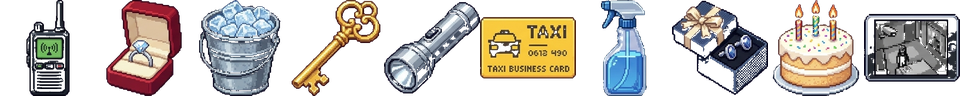
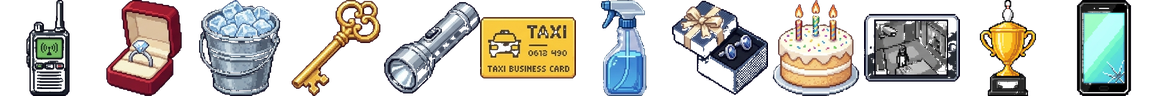
Add chapter 6 (bowling tournament, score puzzle) and chapter 7 (lost phone + blackout, cushions & generator wires)
Claude-Session: https://claude.ai/code/session_01N4C5DtYXhkWmff1TfTMec3

diff --git a/index.html b/index.html
@@ -115,7 +115,7 @@ canvas#scene{display:block;width:100%;aspect-ratio:16/9;touch-action:manipulatio
     <audio id="bgm" src="assets/music.mp3" loop preload="auto"></audio>
     <div class="over" id="start"><div>
       <p class="k">Pingwin Premium · пятница</p><h2>Смена менеджера</h2>
-      <p>Пять глав одной ночи: брони, боулинг, тишина в VIP, сцена на танцполе и пропавшее кольцо.</p>
+      <p>Семь глав одной ночи: брони, боулинг, тишина в VIP, сцена на танцполе, пропавшее кольцо, турнир и блэкаут.</p>
       <div class="btns"><button class="btn" id="bNew" type="button">Начать смену</button><button class="btn ghost" id="bCont" type="button" hidden>Продолжить</button></div>
       <p id="loading" style="margin-top:10px">Загружаю залы…</p>
     </div></div>
@@ -150,7 +150,7 @@ const cv=$('scene'),c=cv.getContext('2d');cv.width=LW*K;cv.height=LH*K;
 c.setTransform(K,0,0,K,0,0);c.imageSmoothingEnabled=true;c.imageSmoothingQuality='high';
 
 /* ---------- ассеты ---------- */
-const BGN=['lobby','hall','bowling','machine','kitchen','balcony','vip1','vip2','vip3','wc','back','panel','c_tablet','c_pin','c_cctv','c_locker','c_dress','c_cake'];
+const BGN=['lobby','hall','bowling','machine','kitchen','balcony','vip1','vip2','vip3','wc','back','panel','c_tablet','c_pin','c_cctv','c_locker','c_dress','c_cake','c_score','c_gen','c_sofa'];
 const IMG={};let ATL={},ICN=[],RIG=null;
 function load(src){return new Promise((ok,no)=>{const i=new Image();i.onload=()=>ok(i);i.onerror=no;i.src=src})}
 const ready=Promise.all([...BGN.map(n=>load('assets/bg/'+n+'.webp').then(i=>IMG[n]=i)),load('assets/atlas.png').then(i=>IMG.atlas=i),load('assets/icons.png').then(i=>IMG.icons=i),load('assets/me_portrait.webp').then(i=>IMG.mep=i),load('assets/rig.png').then(i=>IMG.rig=i),fetch('assets/rig.json').then(r=>r.json()).then(j=>RIG=j),fetch('assets/atlas.json').then(r=>r.json()).then(j=>{ATL=j.sprites;ICN=j.icons})]);
@@ -161,8 +161,8 @@ let MUTED=false;try{MUTED=localStorage.getItem('pingwin-mute')==='1'}catch(e){}
 function beep(f,d=.08,type='square',v=.03){if(MUTED)return;try{ac=ac||new(window.AudioContext||window.webkitAudioContext)();const o=ac.createOscillator(),g=ac.createGain();o.type=type;o.frequency.value=f;g.gain.setValueAtTime(v,ac.currentTime);g.gain.exponentialRampToValueAtTime(.0001,ac.currentTime+d);o.connect(g).connect(ac.destination);o.start();o.stop(ac.currentTime+d)}catch(e){}}
 
 /* ---------- персонажи ---------- */
-const NAMES={me:'Менеджер (ты)',host:'Хостес Айгерим',serik:'Охранник Серик',timur:'Бармен Тимур',dana:'Официантка Дана',sanzhar:'Официант Санжар',erlan:'Ерлан',asel:'Асель',kamila:'Камила, блогер',viktor:'Виктор Палыч',dauren:'Даурен',galina:'Шеф Галина',bau:'Бауыржан, звук',roza:'Роза апай',book:'Мужчина с книгой',coll:'Гостья с корпоратива'};
-const PBG={me:['#ff4fb0','#3a1030'],host:['#ff8a3c','#4a1a0c'],serik:['#7a8aa0','#141a24'],timur:['#3ec9c1','#0c3030'],dana:['#c08aff','#2a1040'],sanzhar:['#e8e4dc','#3a3640'],erlan:['#3ec9c1','#0c3a40'],asel:['#f0d0a0','#4a3420'],kamila:['#ff7ab8','#4a1030'],viktor:['#f0c060','#4a3010'],dauren:['#ffa040','#4a2008'],galina:['#e8eef4','#3a4450'],bau:['#7a8aff','#141444'],roza:['#5a8ae0','#10204a'],book:['#a08060','#2a1c10'],coll:['#5a8ae0','#10204a']};
+const NAMES={me:'Менеджер (ты)',host:'Хостес Айгерим',serik:'Охранник Серик',timur:'Бармен Тимур',dana:'Официантка Дана',sanzhar:'Официант Санжар',erlan:'Ерлан',asel:'Асель',kamila:'Камила, блогер',viktor:'Виктор Палыч',dauren:'Даурен',galina:'Шеф Галина',bau:'Бауыржан, звук',roza:'Роза апай',book:'Мужчина с книгой',coll:'Гостья с корпоратива',aliya:'Алия, капитан «Барсов»',aidos:'Айдос, гость VIP-2'};
+const PBG={me:['#ff4fb0','#3a1030'],host:['#ff8a3c','#4a1a0c'],serik:['#7a8aa0','#141a24'],timur:['#3ec9c1','#0c3030'],dana:['#c08aff','#2a1040'],sanzhar:['#e8e4dc','#3a3640'],erlan:['#3ec9c1','#0c3a40'],asel:['#f0d0a0','#4a3420'],kamila:['#ff7ab8','#4a1030'],viktor:['#f0c060','#4a3010'],dauren:['#ffa040','#4a2008'],galina:['#e8eef4','#3a4450'],bau:['#7a8aff','#141444'],roza:['#5a8ae0','#10204a'],book:['#a08060','#2a1c10'],coll:['#5a8ae0','#10204a'],aliya:['#ff8a3c','#4a1a0c'],aidos:['#5ab0e0','#10304a']};
 const SPH=160,PX=122/SPH; // высота спрайта менеджера в атласе и масштаб в сцене
 function sprite(k,x,feet,s=1,flip=false,clipY=null,bob=0){const a=ATL[k];if(!a)return;const w=a[2]*PX*s,h=a[3]*PX*s;
  c.save();if(clipY!=null){c.beginPath();c.rect(x-w,0,w*2,clipY);c.clip()}
@@ -193,7 +193,7 @@ function portrait(k){const [a,b]=PBG[k]||['#555','#222'];const g=pfc.createLinea
  const s=ATL[k];if(!s)return;const sw=Math.min(s[2],s[3]*.42),sx=s[0]+(s[2]-sw)/2;pfc.imageSmoothingQuality='high';pfc.drawImage(IMG.atlas,sx,s[1],sw,sw,4,6,88,88)}
 
 /* ---------- предметы ---------- */
-const ITEM={radio:['Рация',0],ring:['Коробочка с кольцом',1],ice:['Ведро льда',2],key:['Ключ от служебки',3],flash:['Фонарик',4],taxi:['Визитка такси',5],spray:['Пятновыводитель',6],cuff:['Коробка с запонками',7],cake:['Торт с кольцом',8],pkey:['Ключ от техшкафа',3],lkey:['Ключ от шкафчика находок',3]};
+const ITEM={radio:['Рация',0],ring:['Коробочка с кольцом',1],ice:['Ведро льда',2],key:['Ключ от служебки',3],flash:['Фонарик',4],taxi:['Визитка такси',5],spray:['Пятновыводитель',6],cuff:['Коробка с запонками',7],cake:['Торт с кольцом',8],pkey:['Ключ от техшкафа',3],lkey:['Ключ от шкафчика находок',3],trophy:['Кубок турнира',10],phone:['Телефон Айдоса',11]};
 function drawIcon(ctx,id,s){const r=ICN[ITEM[id][1]];if(!r||!IMG.icons)return;ctx.imageSmoothingQuality='high';ctx.drawImage(IMG.icons,r[0],r[1],r[2],r[3],0,0,s,s)}
 
 /* ---------- сцены (координаты 640×360) ---------- */
@@ -218,8 +218,8 @@ const SC={
    {n:'На ресепшн',x:0,y:200,w:36,h:160,at:40,go:'lobby',mk:[18,320]},
    {n:'В боулинг',x:576,y:296,w:64,h:64,at:560,go:'bowling',mk:[610,326]}]},
  bowling:{name:'Боулинг',floor:302,s:.84,min:60,max:560,fg:[{a:1,p:[[0,263],[62,262],[102,290],[102,346],[0,346]]},{a:1,p:[[64,292],[160,292],[160,345],[64,345]]},{a:1,p:[[140,300],[180,271],[272,269],[302,292],[302,360],[140,360]]},{a:1,p:[[296,288],[372,288],[372,346],[296,346]]},{a:1,p:[[364,307],[416,307],[416,350],[364,350]]}],
-  npcs:()=>S.ch>=1?[{k:'coll',x:440,act:()=>say1(S.ch===2&&!S.fixed?'Коллеги Виктора Палыча грустно ждут. Кто-то уже зевает.':'Корпоратив играет и громко болеет за своих.')},{k:'viktor',x:492,act:viktorTalk,use:{cuff:cuffViktor}}]:[],
-  hot:()=>[{n:'Дорожка 11',x:430,y:186,w:100,h:66,at:470,act:lane11},
+  npcs:()=>S.ch>=1?[{k:'coll',x:440,act:()=>say1(S.ch===2&&!S.fixed?'Коллеги Виктора Палыча грустно ждут. Кто-то уже зевает.':'Корпоратив играет и громко болеет за своих.')},{k:'viktor',x:492,act:viktorTalk,use:{cuff:cuffViktor,trophy:trophyViktor}},S.ch===6&&{k:'aliya',x:398,act:aliyaTalk,use:{trophy:trophyAliya}}]:[],
+  hot:()=>[{n:'Дорожка 11',x:430,y:186,w:100,h:66,at:470,act:lane11},...(S.ch===6?[{n:'Табло и пульт дорожек',x:180,y:100,w:92,h:54,at:230,act:lane11}]:[]),
    {n:'Служебная дверь',x:566,y:160,w:70,h:118,at:560,act:serviceDoor},
    {n:'В зал',x:0,y:220,w:30,h:140,at:30,go:'hall',mk:[16,320]}]},
  machine:{name:'Машинное отделение',floor:340,s:1,min:40,max:600,dark:1,npcs:()=>[],
@@ -233,7 +233,8 @@ const SC={
  back:{name:'Задний двор',floor:332,s:1,min:120,max:560,
   npcs:()=>S.ch===3&&!S.s3bau?[{k:'bau',x:440,act:bauBack}]:[],
   hot:()=>[{n:'Дверь на кухню',x:212,y:158,w:82,h:142,at:252,go:'kitchen'},
-   {n:'Мусорные баки',x:370,y:218,w:80,h:70,at:400,act:()=>say1('Баки. Холодно, снег. Лучше не задерживаться.')}]},
+   {n:'Мусорные баки',x:370,y:218,w:80,h:70,at:400,act:()=>say1('Баки. Холодно, снег. Лучше не задерживаться.')},
+   {n:'Аварийный генератор',x:470,y:180,w:110,h:120,at:500,act:genAct}]},
  balcony:{name:'Балкон · 2 этаж',floor:216,s:.62,min:60,max:600,fg:[{a:.55,p:[[0,181],[290,181],[290,305],[0,305]]},{a:.55,p:[[365,181],[640,181],[640,320],[365,320]]},{a:1,p:[[408,214],[596,214],[596,322],[408,322]]}],
   npcs:()=>[(S.ch!==3||S.s3bau)&&{k:'bau',x:520,act:bauTalk},S.ch===3&&{k:'sanzhar',x:190,act:sanzharTalk}],
   hot:()=>[{n:'VIP-1',x:104,y:112,w:50,h:96,at:128,go:'vip1'},{n:'VIP-2',x:220,y:112,w:50,h:96,at:244,go:'vip2'},
@@ -245,8 +246,9 @@ const SC={
   npcs:()=>S.ch>=3?[{k:'erlan',x:250,act:erlanVip,use:{cake:finale}},{k:'asel',x:340,act:()=>talk([['asel','Какой вечер! Ерлан сегодня какой-то загадочный.','happy']])}]:[],
   hot:()=>[{n:'Караоке-экран',x:240,y:96,w:160,h:100,at:320,act:()=>say1(S.ch>=3&&!S.s3fixed?'Экран показывает слова, но звука нет.':'Строчки бегут, все поют.')},{n:'На балкон',x:0,y:250,w:70,h:110,at:80,go:'balcony',mk:[30,320]}]},
  vip2:{name:'VIP-2',floor:342,s:1.55,min:70,max:540,
-  npcs:()=>S.ch>=1&&S.ch<=3?[{k:'dauren',x:300,act:()=>talk([['dauren',S.ch===3&&!S.s3fixed?'Эй! Где звук?! Я только разогрелся!':'Я звезда этого вечера! Ещё песню!','happy']])}]:[],
-  hot:()=>[{n:'Караоке-экран',x:310,y:110,w:90,h:80,at:350,act:()=>say1('В VIP-2 поют громко и мимо нот.')},{n:'На балкон',x:0,y:250,w:70,h:110,at:80,go:'balcony',mk:[30,320]}]},
+  npcs:()=>S.ch>=1&&S.ch<=3?[{k:'dauren',x:300,act:()=>talk([['dauren',S.ch===3&&!S.s3fixed?'Эй! Где звук?! Я только разогрелся!':'Я звезда этого вечера! Ещё песню!','happy']])}]:S.ch===7?[{k:'aidos',x:430,act:aidosTalk,use:{phone:phoneAidos}}]:[],
+  hot:()=>[{n:'Караоке-экран',x:310,y:110,w:90,h:80,at:350,act:()=>say1(S.ch===7&&S.s7dark&&!S.s7power?'Экран погас вместе со всем кварталом.':'В VIP-2 поют громко и мимо нот.')},
+   ...(S.ch===7&&S.s7buzz&&!S.s7phone&&!has('phone')?[{n:'Диван: что-то вибрирует',x:96,y:176,w:140,h:76,at:180,act:sofaAct}]:[]),{n:'На балкон',x:0,y:250,w:70,h:110,at:80,go:'balcony',mk:[30,320]}]},
  vip3:{name:'VIP-3',floor:346,s:1.6,min:120,max:590,
   npcs:()=>S.kamila==='vip'&&S.ch>=1&&S.ch<=3?[{k:'kamila',x:330,act:()=>talk([['kamila','Сторис уже набрала кучу реакций! Спасибо за VIP.','happy']])}]:[],
   hot:()=>[{n:'Табличка «Забронировано»',x:340,y:212,w:60,h:30,at:370,act:()=>say1(S.vipFree?'Табличку можно убрать: бронь отменили.':'Бронь на 20:00, компания Сауле.')},{n:'На балкон',x:0,y:40,w:80,h:290,at:120,go:'balcony',mk:[40,300]}]},
@@ -259,7 +261,10 @@ const SC={
  c_cctv:{name:'Камеры наблюдения',closeup:1,floor:340,s:1,min:300,max:300,npcs:()=>[],hot:backHot},
  c_locker:{name:'Шкафчик находок',closeup:1,floor:340,s:1,min:300,max:300,npcs:()=>[],hot:backHot},
  c_dress:{name:'Платье',closeup:1,floor:340,s:1,min:300,max:300,npcs:()=>[],hot:backHot},
- c_cake:{name:'Торт',closeup:1,floor:340,s:1,min:300,max:300,npcs:()=>[],hot:backHot}
+ c_cake:{name:'Торт',closeup:1,floor:340,s:1,min:300,max:300,npcs:()=>[],hot:backHot},
+ c_score:{name:'Пульт дорожек',closeup:1,floor:340,s:1,min:300,max:300,npcs:()=>[],hot:backHot},
+ c_gen:{name:'Генератор',closeup:1,floor:340,s:1,min:300,max:300,npcs:()=>[],hot:backHot},
+ c_sofa:{name:'Диван VIP-2',closeup:1,floor:340,s:1,min:300,max:300,npcs:()=>[],hot:backHot}
 };
 function backHot(){return S.mini?[]:[{n:'Назад',x:0,y:296,w:90,h:64,at:300,act:leaveCloseup,mk:[34,330]}]}
 function leaveCloseup(){S.ready=null;S.mini=null;go(S.prevScene||'lobby',S.prevX)}
@@ -273,15 +278,18 @@ function makeMini(k){
  if(k==='lock')return{type:'lock',d:[0,0,0,0]};
  if(k==='stain')return{type:'stain',b:[[180,120,38],[300,200,46],[420,140,34],[250,280,30],[470,260,40],[360,90,26]].map(([x,y,r])=>({x,y,r,a:1}))};
  if(k==='candles')return{type:'candles',lit:[0,0,0,0,0,0,0],next:1.2};
+ if(k==='score')return{type:'score',d:[0,0,0],tries:0};
+ if(k==='wires')return{type:'wires',done:[0,0,0,0],hold:null,px:0,py:0,spark:0};
+ if(k==='cushions')return{type:'cushions',cu:[{x:286,y:176,w:180,h:104},{x:170,y:150,w:170,h:110},{x:330,y:120,w:150,h:96}],grab:null,ox:0,oy:0};
 }
 function winMini(){S.mini=null;beep(784,.12,'triangle',.05);setTimeout(()=>beep(1046,.16,'triangle',.05),120);const w=WIN;WIN=null;w&&w()}
-const CH=[['Пролог','19:00','Открытие смены'],['Глава 1','20:00','Без брони'],['Глава 2','21:00','Боулинг встал'],['Глава 3','22:00','Тишина в VIP'],['Глава 4','23:00','Сцена на танцполе'],['Глава 5','23:40','Где кольцо?']];
+const CH=[['Пролог','19:00','Открытие смены'],['Глава 1','20:00','Без брони'],['Глава 2','21:00','Боулинг встал'],['Глава 3','22:00','Тишина в VIP'],['Глава 4','23:00','Сцена на танцполе'],['Глава 5','23:40','Где кольцо?'],['Глава 6','00:30','Турнир без табло'],['Глава 7','01:30','Блэкаут']];
 
 /* ---------- состояние ---------- */
 let S,T=0,fade={a:0,d:0,cb:null},cardOpen=false,endOpen=false,started=false,pops=[];
 const me={x:300,tx:300,face:1,cb:null,ph:0};
 const NEW=()=>({ch:0,scene:'lobby',inv:[],sel:null,g:3,t:3,k:3,radio:0,vis:{},erlanCalled:0,erlanHere:0,erlanMet:0,ringStored:0,metHost:0,talkedKamila:0,vipFree:0,host:0,kamila:null,viktor:null,triedDoor:0,askedIce:0,key:0,flash:0,fixed:0,mini:null,
- s3san:0,s3console:0,s3fixed:0,s3bau:0,bauChoice:0,s4d:null,s4dress:0,needTaxi:0,s5empty:0,s5cam:0,s5dana:0,s5locker:0,s5code:0,ready:null,prevScene:null,prevX:300,s5ring:0,cake:0,done:0});
+ s3san:0,s3console:0,s3fixed:0,s3bau:0,bauChoice:0,s4d:null,s4dress:0,needTaxi:0,s5empty:0,s5cam:0,s5dana:0,s5locker:0,s5code:0,ready:null,prevScene:null,prevX:300,s5ring:0,cake:0,done:0,s5done:0,s6vik:0,s6sheet:0,s6won:0,s7aidos:0,s7dark:0,s7buzz:0,s7phone:0,s7power:0});
 const has=id=>S.inv.includes(id);
 function give(id){if(!has(id))S.inv.push(id);pose('ma3',.7);renderInv();beep(880,.06);setTimeout(()=>beep(1320,.08),70);pops.push({t:1.6,s:'+ '+ITEM[id][0]})}
 function take(id){S.inv=S.inv.filter(i=>i!==id);if(S.sel===id)S.sel=null;renderInv()}
@@ -319,6 +327,13 @@ function goal(){const g=(t,s,x,y=0)=>[t,s,x,y];
   if(!S.s5dana)return g('Найди официантку Дану в зале','hall',120);if(!S.s5locker&&!S.s5code)return g('Узнай код шкафчика у Серика','lobby',186);
   if(!S.s5locker)return g('Открой шкафчик находок за стойкой','lobby',376,228);if(!has('ring')&&!S.cake)return g('Найди Виктора Палыча в боулинге','bowling',492);
   if(!S.cake)return g('Отнеси кольцо шефу Галине на кухню','kitchen',330);return g('Вынеси торт Ерлану в VIP-1','vip1',256)}
+ if(S.ch===6){if(!S.s6vik)return g('Табло в боулинге погасло: поговори с Виктором Палычем','bowling',492);
+  if(!S.s6sheet)return g('Посчитай очки на пульте дорожек','bowling',226,104);
+  if(!has('trophy')&&!S.s6won)return g('Кубок для победителя — у Айгерим на ресепшн','lobby',246);
+  return g('Вручи кубок победителям','bowling',398)}
+ if(S.ch===7){if(!S.s7aidos)return g('Гость в VIP-2 потерял телефон','vip2',430);
+  if(!S.s7phone){if(has('phone'))return g('Верни телефон Айдосу','vip2',430);return S.s7buzz?g('Что-то вибрирует в диване VIP-2','vip2',150,178):g('Поговори с Айдосом','vip2',430)}
+  if(!S.s7power)return g('Запусти генератор на заднем дворе (через кухню)','back',520,200);return g('…','lobby',0)}
  return g('…','lobby',0)}
 const LINKS={};for(const s in SC){LINKS[s]={}}
 function buildLinks(){for(const s in SC)SC[s].hot().forEach(h=>{if(h.go)LINKS[s][h.go]=h})}
@@ -347,9 +362,11 @@ const INTRO=[
  ()=>talk([['r:timur','Шеф! Из боулинга кричат: на 11-й дорожке встала машина!'],['me','Иду.']]),
  ()=>talk([['r:sanzhar','Шеф, в VIP-1 и VIP-2 пропал звук! Ерлан недоволен, а Бауыржана нигде нет.'],['me','Поднимаюсь.']]),
  ()=>talk([['r:serik','Шеф, в зале гость с микрофоном рвётся на сцену. И облил кого-то коктейлем.'],['me','Уже бегу.']]),
- ()=>talk([['r:galina','Шеф, торт для Ерлана готов! Неси кольцо, у нас двадцать минут.'],['me','Кольцо в ящике под стойкой. Сейчас принесу.']])
+ ()=>talk([['r:galina','Шеф, торт для Ерлана готов! Неси кольцо, у нас двадцать минут.'],['me','Кольцо в ящике под стойкой. Сейчас принесу.']]),
+ ()=>talk([['r:timur','Шеф, в боулинге погасло табло! Финал турнира, корпоратив спорит, кто победил.'],['me','Иду считать.']]),
+ ()=>talk([['r:sanzhar','Шеф, в VIP-2 гость потерял телефон. У него в шесть утра самолёт, посадочный — в телефоне.'],['me','Поднимаюсь.']])
 ];
-function chapter(n){S.ch=n;save();cardOpen=true;const [k,t,s]=CH[n];$('cardK').textContent='Пятница, '+t;$('cardT').textContent=k;$('cardS').textContent=s;$('card').hidden=false;
+function chapter(n){S.ch=n;save();cardOpen=true;const [k,t,s]=CH[n];$('cardK').textContent=(t<'1'?'Ночь на субботу, ':'Пятница, ')+t;confetti=0;$('cardT').textContent=k;$('cardS').textContent=s;$('card').hidden=false;
  beep(523,.12,'triangle',.05);setTimeout(()=>beep(784,.16,'triangle',.05),140);idle()}
 $('card').addEventListener('click',()=>{if(!cardOpen)return;cardOpen=false;$('card').hidden=true;INTRO[S.ch]()});
 const nextCh=n=>()=>setTimeout(()=>chapter(n),700);
@@ -362,6 +379,8 @@ function serikTalk(){
   if(S.s5dana&&!S.s5locker&&!S.s5code){talk([['serik','Код от шкафчика находок? Загадку помните, шеф: так у нас заведено.'],['serik','Сначала номер дорожки, которая сегодня ломалась. Потом номер VIP Ерлана — двумя цифрами.']],null,()=>{S.s5code=1});return}}
  talk([['serik',['На входе порядок, шеф. Народ уже собирается.','Камила — та самая блогер. Половина зала на неё подписана.','На входе тихо. Удачи с боулингом.','Бауыржан? Мимо меня не проходил.','Если что — я рядом.','Кольцо найдём, шеф.'].slice(S.ch)[0]]])}
 function hostTalk(){
+ if(S.ch===6){if(S.s6sheet&&!S.s6won&&!has('trophy')){talk([['host','Кубок турнира? Стоит у меня с обеда, держите!']],null,()=>give('trophy'));return}talk([['host',S.s6won?'Шеф, «Барсы» фотографируются с кубком у входа!':'Кубок для турнира у меня. Ждёт победителя.']]);return}
+ if(S.ch===7){talk([['host',S.s7power?'Свет! Спасибо, шеф!':'Гости спрашивают, надолго ли темнота…']]);return}
  if(S.ch===0){talk([['host','Бронь на вечер полная, шеф. Справлюсь!']]);return}
  if(S.ch===1&&!S.metHost){S.metHost=1;talk([['host','Пришла Камила с подругами, без брони. Она блогер, у неё огромная аудитория.'],['host','Хотят VIP-караоке. А у нас всё занято.'],['me','Совсем всё?'],['host','VIP-1 — праздник Ерлана, в VIP-2 уже поют, VIP-3 забронирован на 20:00.']]);return}
  if(S.ch===1){talk([['host',S.vipFree?'Уборку в VIP-3 я уже предупредила!':'Планшет с бронями на стойке, если нужно.']]);return}
@@ -413,6 +432,9 @@ function viktorTalk(){
    {t:'Подождите ещё десять минут',go:()=>{S.viktor='bad';sc(-1,0,0);talk([['viktor','Десять минут. Засекаю.']])}}]);return}
   if(!S.fixed){talk([['viktor','Ну что, шеф? Мы всё ещё ждём.']]);return}
   if(S.viktor==='good'){sc(1,0,0);talk([['viktor','Вот это скорость! Ребята, играем!']],null,nextCh(3))}else talk([['viktor','Наконец-то. Но осадочек остался.']],null,nextCh(3));return}
+
+ if(S.ch===6){if(has('trophy')){trophyViktor();return}if(!S.s6vik){S.s6vik=1;talk([['viktor','Шеф! Финал турнира, последний бросок — и табло погасло!'],['viktor','Мы, «Соколы», точно впереди. А «Барсы» спорят.'],['aliya','Ничего не точно! Я в десятом выбила девятку. Пусть посчитают.']]);return}
+  talk([['viktor',S.s6won?'Ну что ж… Хорошая была игра.':'Посчитайте уже, шеф. Пульт там, у дорожки.']]);return}
  if(S.ch===5&&!has('ring')&&!S.cake){if(!has('cuff')){talk([['viktor','Шеф? Что-то случилось?'],['me','Пока не знаю. Скоро вернусь.']]);return}cuffViktor();return}
  talk([['viktor','Отличный вечер, шеф!']])}
 function cuffViktor(){if(S.ch!==5||!has('cuff'))return say1('Виктору Палычу это не нужно.');
@@ -421,7 +443,9 @@ function cuffViktor(){if(S.ch!==5||!has('cuff'))return say1('Виктору Па
  else talk([['me','Виктор Палыч, кажется, у вас наша коробочка.'],['viktor','А, это вы. Та, что заставила нас ждать?']],[
   {t:'Простите за дорожку. Вот ваша коробка, а с меня десерт',go:()=>{sc(0,0,-1);talk([['viktor','Ладно, принято. Держите вашу коробочку.']],null,swap)}},
   {t:'Это кольцо для предложения. Пожалуйста, верните',go:()=>{talk([['viktor','…Предложение? Ну что ж вы сразу не сказали. Держите.']],null,swap)}}])}
-function lane11(){if(S.ch===2&&!S.fixed){say1('Грабли опущены, кегли не встают. Машина за стеной заклинила — служебная дверь справа.');return}say1('Дорожка 11. Кегли стоят ровно.')}
+function lane11(){if(S.ch===6){if(!S.s6vik){say1('Табло погасло. Сначала узнаю, что случилось.');return}if(S.s6sheet){say1('Табло так и не ожило. Хорошо, что есть распечатка.');return}
+  inspect('c_score','score','Табло сдохло, но пульт печатает протокол бросков. У «Соколов» итог есть — 136. У «Барсов» итог не допечатался.',()=>go('bowling',470,scoreWin));return}
+ if(S.ch===2&&!S.fixed){say1('Грабли опущены, кегли не встают. Машина за стеной заклинила — служебная дверь справа.');return}say1('Дорожка 11. Кегли стоят ровно.')}
 function serviceDoor(){if(S.ch!==2||S.fixed){say1('Служебная дверь в машинное отделение. Посторонним вход воспрещён.');return}
  S.triedDoor=1;if(!S.key){pose('ma4',1.2);say1('Заперто. Ключ от служебки — у бармена Тимура.');return}
  if(!S.flash){talk([['me','Открыла. Внутри темно, хоть глаз выколи.'],['me','Нужен фонарик. Он у Серика на входе.']]);return}
@@ -473,10 +497,41 @@ function ringGalina(){if(!has('ring'))return;take('ring');S.cake=1;give('cake');
 function erlanVip(){if(S.ch===5&&has('cake')){finale();return}
  talk([['erlan',S.ch===3&&!S.s3fixed?'Шеф, а музыка будет? Через два часа мой главный момент…':S.ch===5?'Шеф… Всё в силе?':'Отличный вечер! Спасибо, что всё так.']])}
 function finale(){if(!has('cake'))return;inspect('c_cake','candles','Семь свечей. Зажги все разом, пока Ерлан не встал. Сквозняк из двери гасит их по одной.',()=>go('vip1',180,finaleWin))}
-function finaleWin(){pose('ma5',3);take('cake');S.done=1;sc(1,1,1);
- talk([['me','С днём рождения, Ерлан!'],['erlan','Асель… Я давно хотел спросить.'],['erlan','Ты выйдешь за меня?'],['asel','Да! Конечно, да!'],['bau','Музыку погромче!']],null,()=>{confetti=1;setTimeout(epilogue,1600)})}
+function finaleWin(){pose('ma5',3);take('cake');S.s5done=1;sc(1,1,1);
+ talk([['me','С днём рождения, Ерлан!'],['erlan','Асель… Я давно хотел спросить.'],['erlan','Ты выйдешь за меня?'],['asel','Да! Конечно, да!'],['bau','Музыку погромче!']],null,()=>{confetti=1;setTimeout(()=>talk([['me','Полночь. Кольцо на пальце, гости счастливы.'],['me','Но смена ещё не кончилась.']],null,nextCh(6)),1800)})}
+/* ---------- глава 6 ---------- */
+function aliyaTalk(){if(has('trophy')){trophyAliya();return}
+ talk([['aliya',S.s6won?'Спасибо, шеф! Честная игра — лучшая игра.':S.s6sheet?'Ну? Кто победил?':'Протокол бросков печатает пульт у дорожки. Там всё видно.']])}
+function scoreWin(){S.s6sheet=1;talk([['me','«Барсы» — 138, «Соколы» — 136. Два очка!'],['aliya','Я же говорила! Девятка в десятом!'],['viktor','…Перепроверять не буду. Наверное.']])}
+function trophyAliya(){if(!has('trophy'))return;take('trophy');S.s6won='honest';sc(1,1,0);
+ talk([['me','Победители турнира — «Барсы»! 138 очков.'],['aliya','Ура! Девочки, фото с кубком!'],['viktor',S.viktor==='good'?'Ладно, шеф, заслужили. В следующую пятницу — реванш!':'Хм. Ну, поздравляю.']],null,nextCh(7))}
+function trophyViktor(){if(!has('trophy'))return;
+ talk([['viktor','Шеф, отойдём на секунду.'],['viktor','Я их начальник, неловко проигрывать подчинённым. Отдайте кубок «Соколам».'],['viktor','А команде вашей — щедрые чаевые. Табло-то всё равно не работало.']],[
+  {t:'Простите, счёт есть счёт. Кубок — «Барсам»',go:trophyAliya},
+  {t:'Ладно, табло действительно не работало',go:()=>{take('trophy');S.s6won='viktor';sc(-2,0,2);talk([['viktor','Вот это я понимаю — сервис!'],['aliya','Серьёзно? Мы же видели распечатку…'],['me','(Неприятно. Но касса довольна.)']],null,nextCh(7))}}])}
+
+/* ---------- глава 7 ---------- */
+function aidosTalk(){
+ if(has('phone')){phoneAidos();return}
+ if(!S.s7aidos){talk([['aidos','Шеф, я потерял телефон! Где-то здесь, в VIP-2.'],['aidos','Друзья звонят — гудки идут, но за музыкой ничего не слышно.'],['aidos','А в шесть утра самолёт. Посадочный — там.'],['me','Найдём. Сейчас попрошу выключить музыку…']],null,()=>{S.s7aidos=1;setTimeout(blackout,500)});return}
+ if(S.s7phone){talk([['aidos',S.s7power?'Свет и телефон! Лучшая ночь.':'Телефон нашёлся, теперь бы свет…']]);return}
+ talk([['aidos',S.s7buzz?'Слышите? Вибрирует! Где-то в диване!':'Темно, как в шахте…']])}
+function blackout(){S.s7dark=1;bgm.pause();beep(90,.6,'sawtooth',.05);
+ talk([['me','…Что?! Свет погас. Музыка тоже.'],['r:serik','Шеф, весь квартал без света! Метель оборвала линию.'],['r:serik','Аварийный генератор — на заднем дворе, через кухню.'],['r:host','Шеф, гости в зале волнуются! Что делать?']],[
+  {t:'Свечи на столы и чай за счёт заведения',go:()=>{sc(1,0,-1);talk([['r:host','Поняла! Свечи уже несём.']],null,buzz)}},
+  {t:'Серик, у входа: никто не уходит без оплаты',go:()=>{sc(-1,0,1);talk([['r:serik','Принял. Стою у двери.']],null,buzz)}},
+  {t:'Объяви: без паники, через десять минут будет свет',go:()=>{sc(0,1,0);talk([['r:host','Объявила. Все ждут вас, шеф!']],null,buzz)}}])}
+function buzz(){S.s7buzz=1;talk([['aidos','Тихо!.. Слышите? Бззз… Бззз…'],['me','Музыки нет — и его телефон стало слышно. Звонят друзья!'],['me','Вибрирует где-то в диване.']])}
+function sofaAct(){inspect('c_sofa','cushions','Темно. Вибрация идёт из-под подушек. Разгребу их, посвечу фонариком.',()=>{give('phone');go('vip2',260,()=>say1('Есть! Телефон Айдоса. Экран треснул, но живой.'))})}
+function phoneAidos(){if(!has('phone'))return;take('phone');S.s7phone=1;sc(1,0,0);
+ talk([['aidos','Мой телефон! Посадочный на месте!'],['aidos','Шеф, вы чудо. Оставлю вам отзыв на пять звёзд.']],null,checkCh7)}
+function genAct(){if(S.ch!==7||!S.s7dark||S.s7power){say1('Аварийный генератор под навесом. Надеюсь, не пригодится.');return}
+ inspect('c_gen','wires','Генератор. Кто-то отсоединил провода на обслуживании. Каждый провод — к клемме своего цвета.',()=>{S.s7power=1;playMusic();go('back',500,()=>talk([['me','Тррр… Генератор завёлся!'],['r:serik','Шеф, свет есть! Гости аплодируют!']],null,checkCh7))})}
+function checkCh7(){if(!S.s7phone||!S.s7power)return;S.done=1;save();
+ setTimeout(()=>talk([['r:host','Шеф, 03:00. Последние гости уходят. Закрываемся?'],['me','Закрываемся. Какая ночь.']],null,epilogue),600)}
+
 function epilogue(){talk([['book','Позвольте представиться. Я тайный гость сети. Весь вечер наблюдал за вами.'],['book',rating()>=4?'Это была образцовая смена. Высшая оценка.':rating()>=3?'Хорошая смена. Есть над чем поработать, но гости довольны.':'Тяжёлая ночь. Но кольцо вы нашли — это главное.'],
- ...(S.s4d==='warn'?[['dauren','Эм… а я куртку свою не оставлял?..']]:[])],null,endCard)}
+ ...(S.s6won==='viktor'?[['book','Кубок турнира отдали не тем. Я видел распечатку.']]:[]),...(S.s4d==='warn'?[['dauren','Эм… а я куртку свою не оставлял?..']]:[])],null,endCard)}
 let confetti=0;const CONF=Array.from({length:90},(_,i)=>({x:Math.random()*640,y:-Math.random()*360,v:40+Math.random()*60,c:['#ff4fb0','#f0c060','#3ec9c1','#ffffff'].slice(i%4)[0]}));
 const rating=()=>Math.round((S.g+S.t+S.k)/3);
 function endCard(){endOpen=true;const st=n=>'★'.repeat(Math.max(1,Math.round(n*3/5)))+'☆'.repeat(3-Math.max(1,Math.round(n*3/5)));const r=rating();
@@ -487,8 +542,13 @@ function endCard(){endOpen=true;const st=n=>'★'.repeat(Math.max(1,Math.round(n
  [523,659,784,1046].forEach((f,i)=>setTimeout(()=>beep(f,.15,'triangle',.05),i*120))}
 
 /* ---------- мини-игры ---------- */
-const HELP={timing:'Тапай, когда жёлтая стрелка в бирюзовой зоне. Нужно 3 точных рывка рычагом.',breakers:'Подними все автоматы. Щелчок переключает и соседние.',tablet:'Найди в списке то, что освобождает VIP. Тапни по строке.',cctv:'Веди пальцем по экрану, чтобы перематывать. Отпусти на нужном кадре.',lock:'Тапай над окошком — цифра больше, под окошком — меньше.',stain:'Три пальцем по пятнам, пока не исчезнут.',candles:'Тапай по свечам, чтобы зажечь. Нужны все семь сразу.'};
+const HELP={timing:'Тапай, когда жёлтая стрелка в бирюзовой зоне. Нужно 3 точных рывка рычагом.',breakers:'Подними все автоматы. Щелчок переключает и соседние.',tablet:'Найди в списке то, что освобождает VIP. Тапни по строке.',cctv:'Веди пальцем по экрану, чтобы перематывать. Отпусти на нужном кадре.',lock:'Тапай над окошком — цифра больше, под окошком — меньше.',stain:'Три пальцем по пятнам, пока не исчезнут.',candles:'Тапай по свечам, чтобы зажечь. Нужны все семь сразу.',score:'Посчитай итог «Барсов». X — страйк: 10 + два следующих броска. / — спэр: 10 + следующий бросок. Выставь цифры и жми «Проверить».',wires:'Тяни провод слева к клемме того же цвета справа.',cushions:'Сдвигай подушки пальцем. Найдёшь телефон — тапни по нему.'};
 function miniHelp(){dl.who.textContent='Мини-игра';portrait('me');dl.say.textContent=HELP[S.mini.type];dl.more.textContent='';dl.ch.innerHTML=''}
+const SCX=[280,320,360],SCB={x:410,y:286,w:92,h:30};
+const BARS=[['7','2',9],['8','1',18],['X','',37],['6','3',46],['5','/',62],['6','2',70],['9','/',''],['X','',''],['7','/',''],['9','-','']];
+const SOKO=[['X','',19],['9','-',28],['7','/',46],['8','1',55],['X','',74],['7','2',83],['6','/',103],['X','',122],['8','1',131],['5','-',136]];
+const WL=[['#ff4a5a',120],['#4a8aff',165],['#ffd23c',210],['#3ec96a',255]],WR=[2,0,3,1];
+const PH={x:350,y:206,w:34,h:56};const phoneFree=m=>!m.cu.some(q=>PH.x+PH.w/2>q.x&&PH.x+PH.w/2<q.x+q.w&&PH.y+PH.h/2>q.y&&PH.y+PH.h/2<q.y+q.h);
 const CTX=[262,302,342,382],CANX=[238,266,293,320,347,373,400];
 const CCT={x:252,y:62,w:181,h:166};const ctime=t=>{const m=50+Math.round(t*40);const h=22+Math.floor(m/60);return h+':'+String(m%60).padStart(2,'0')};
 function miniTap(p){const m=S.mini;
@@ -499,11 +559,22 @@ function miniTap(p){const m=S.mini;
   if(r===4){winMini();return}beep(220,.08);dl.say.textContent=['VIP-1 — Ерлан, всё верно. Ищи дальше.','VIP-2 — там уже поют. Не то.','VIP-3 на 20:00… а это что за значок ниже?','Корпоратив на дорожках, VIP тут ни при чём.'][r]||HELP.tablet;return}
  if(m.type==='lock'){for(let i=0;i<4;i++){if(Math.abs(p.x-CTX[i])<20&&p.y>120&&p.y<240){m.d[i]=(m.d[i]+(p.y<180?1:9))%10;beep(500+i*40,.04)}}if(m.d.join('')==='1101')setTimeout(winMini,250);return}
  if(m.type==='candles'){CANX.forEach((x,i)=>{if(Math.abs(p.x-x)<13&&p.y>60&&p.y<195&&!m.lit[i]){m.lit[i]=1;beep(600+i*50,.06,'triangle')}});if(m.lit.every(v=>v))setTimeout(winMini,300);return}
- if(m.type==='stain')miniDrag(p)}
+ if(m.type==='stain')miniDrag(p);
+ if(m.type==='score'){SCX.forEach((x,i)=>{if(Math.abs(p.x-x)<17&&p.y>262&&p.y<340){m.d[i]=(m.d[i]+(p.y<300?1:9))%10;beep(500+i*40,.04)}});
+  if(p.x>SCB.x&&p.x<SCB.x+SCB.w&&p.y>SCB.y&&p.y<SCB.y+SCB.h){const v=+m.d.join('');m.tries++;if(v===138){winMini();return}beep(140,.15,'sawtooth');
+   dl.say.textContent=v===109?'109 — это без бонусов. Страйк и спэр добавляют следующие броски!':v===128||v===129?'Почти! Не забудь: 10-й фрейм тоже считается — 9 и промах.':m.tries>=3?'Подсказка: после 6-го фрейма 70. 7-й (9 /) + страйк = 20 → 90. Дальше сама!':'Не сходится. Начни с 70 после 6-го фрейма.'}}
+ if(m.type==='cushions'&&phoneFree(m)&&p.x>PH.x-8&&p.x<PH.x+PH.w+8&&p.y>PH.y-8&&p.y<PH.y+PH.h+8)winMini()}
 function miniDrag(p){const m=S.mini;if(!m)return;
  if(m.type==='cctv'&&p.x>=CCT.x-10&&p.x<=CCT.x+CCT.w+10){m.t=Math.max(0,Math.min(1,(p.x-CCT.x)/CCT.w))}
+
+ if(m.type==='wires'){if(m.hold==null){const i=WL.findIndex(([,y],i)=>!m.done[i]&&Math.abs(p.x-150)<26&&Math.abs(p.y-y)<18);if(i>=0)m.hold=i}m.px=p.x;m.py=p.y}
+ if(m.type==='cushions'){if(m.grab==null){for(let i=m.cu.length-1;i>=0;i--){const q=m.cu[i];if(p.x>q.x&&p.x<q.x+q.w&&p.y>q.y&&p.y<q.y+q.h){m.grab=i;m.ox=p.x-q.x;m.oy=p.y-q.y;break}}}
+  if(m.grab!=null){const q=m.cu[m.grab];q.x=Math.max(-q.w/2,Math.min(LW-q.w/2,p.x-m.ox));q.y=Math.max(30,Math.min(LH-40,p.y-m.oy))}}
  if(m.type==='stain'){m.b.forEach(b=>{if(Math.hypot(p.x-b.x,p.y-b.y)<b.r+12)b.a=Math.max(0,b.a-.1)});if(m.b.every(b=>b.a<.08)){setTimeout(winMini,200);m.type='done'}}}
-function miniUp(){const m=S.mini;if(!m)return;if(m.type==='cctv'){const c=ctime(m.t);if(c>='23:08'&&c<='23:12')winMini();else dl.say.textContent=c+'. На этом кадре ничего. '+HELP.cctv}}
+function miniUp(){const m=S.mini;if(!m)return;
+ if(m.type==='cushions'){if(m.grab!=null){m.grab=null;beep(200,.04,'triangle',.02)}if(phoneFree(m)&&!m.seen){m.seen=1;dl.say.textContent='Вот он! Светится. Тапни по телефону.'}return}
+ if(m.type==='wires'){const i=m.hold;m.hold=null;if(i==null)return;const j=WR.findIndex((w,j)=>Math.abs(m.px-490)<28&&Math.abs(m.py-WL[j][1])<20);if(j<0)return;
+  if(WR[j]===i){m.done[i]=1;beep(520+i*80,.08,'triangle');if(m.done.every(v=>v)){dl.say.textContent='Все провода на месте. Пуск!';setTimeout(winMini,500)}}else{m.spark=.4;beep(120,.2,'sawtooth');dl.say.textContent='Искра! Не тот цвет. '+HELP.wires}return}if(m.type==='cctv'){const c=ctime(m.t);if(c>='23:08'&&c<='23:12')winMini();else dl.say.textContent=c+'. На этом кадре ничего. '+HELP.cctv}}
 function drawMini(){const m=S.mini;if(!m)return;c.save();c.font='600 12px "Pixelify Sans",monospace';c.textBaseline='middle';
  if(m.type==='timing'){const sx=m.sh?(Math.random()-.5)*6:0;if(m.flash>0){c.fillStyle=`rgba(255,220,120,${m.flash})`;c.fillRect(455,110,100,220)}
   c.fillStyle='rgba(10,6,16,.8)';c.fillRect(110+sx,300,420,40);c.fillStyle='#3ec9c1';c.fillRect(120+m.zone*400,310,.18*400,20);c.fillStyle='#f0c060';c.fillRect(120+m.p*400-2+sx,304,5,32);
@@ -520,10 +591,31 @@ function drawMini(){const m=S.mini;if(!m)return;c.save();c.font='600 12px "Pixel
   c.fillStyle='rgba(0,0,0,.6)';c.fillRect(CCT.x+4,CCT.y+CCT.h-14,CCT.w-8,8);c.fillStyle='#f0c060';c.fillRect(CCT.x+4+m.t*(CCT.w-12),CCT.y+CCT.h-16,4,12);c.restore()}
  if(m.type==='lock'){c.font='600 26px "Pixelify Sans",monospace';c.textAlign='center';m.d.forEach((d,i)=>{c.fillStyle='#f6e6b0';c.fillText(d,CTX[i],181);c.font='600 12px "Pixelify Sans",monospace';c.fillStyle='rgba(240,192,96,.9)';c.fillText('▲',CTX[i],146);c.fillText('▼',CTX[i],214);c.font='600 26px "Pixelify Sans",monospace'});c.textAlign='left'}
  if(m.type==='stain'||m.type==='done'){(m.b||[]).forEach(b=>{if(b.a<=0)return;const g=c.createRadialGradient(b.x,b.y,2,b.x,b.y,b.r);g.addColorStop(0,`rgba(90,10,40,${.85*b.a})`);g.addColorStop(.7,`rgba(120,20,50,${.6*b.a})`);g.addColorStop(1,'rgba(120,20,50,0)');c.fillStyle=g;c.beginPath();c.arc(b.x,b.y,b.r,0,7);c.fill()})}
+ if(m.type==='score'){c.fillStyle='rgba(6,4,10,.55)';c.fillRect(0,0,LW,LH);c.fillStyle='#f3eedf';c.fillRect(40,56,560,186);c.strokeStyle='#5a4a3a';c.lineWidth=1;
+  c.fillStyle='#3a2a1a';c.font='600 12px "Pixelify Sans",monospace';c.fillText('ПРОТОКОЛ · ФИНАЛ · ДОРОЖКИ 11–12',52,70);
+  const row=(name,fr,y,tot)=>{c.fillStyle='#3a2a1a';c.font='600 12px "Pixelify Sans",monospace';c.fillText(name,48,y+20);
+   fr.forEach(([a,b,t],i)=>{const x=126+i*40;c.strokeRect(x,y,40,46);c.strokeRect(x+20,y,20,18);c.font='600 12px "Pixelify Sans",monospace';c.fillStyle=a==='X'?'#c0303a':'#3a2a1a';c.textAlign='center';c.fillText(a,x+10,y+10);c.fillStyle=b==='/'?'#2060c0':'#3a2a1a';c.fillText(b,x+30,y+10);c.fillStyle='#3a2a1a';c.font='600 13px "Pixelify Sans",monospace';c.fillText(t===''?'':t,x+20,y+33);c.fillStyle='#8a7a6a';c.font='9px monospace';c.fillText(i+1,x+20,y-5);c.textAlign='left'});
+   c.strokeRect(528,y,64,46);c.textAlign='center';c.font='600 15px "Pixelify Sans",monospace';c.fillStyle=tot==='?'?'#c0303a':'#3a2a1a';c.fillText(tot,560,y+25);c.textAlign='left'};
+  row('Соколы',SOKO,94,'136');row('Барсы',BARS,170,'?');
+  c.font='600 26px "Pixelify Sans",monospace';c.textAlign='center';m.d.forEach((d,i)=>{const x=SCX[i];c.fillStyle='rgba(12,8,20,.9)';c.fillRect(x-16,262,32,78);c.fillStyle='#f6e6b0';c.fillText(d,x,304);c.font='600 12px "Pixelify Sans",monospace';c.fillStyle='#f0c060';c.fillText('▲',x,274);c.fillText('▼',x,332);c.font='600 26px "Pixelify Sans",monospace'});
+  c.fillStyle='#ff4fb0';rr(SCB.x,SCB.y,SCB.w,SCB.h);c.fill();c.fillStyle='#fff';c.font='600 13px "Pixelify Sans",monospace';c.fillText('Проверить',SCB.x+SCB.w/2,SCB.y+SCB.h/2+1);c.textAlign='left';
+  c.fillStyle='#f0c060';c.font='600 12px "Pixelify Sans",monospace';c.fillText('Итог «Барсов»:',150,301)}
+ if(m.type==='wires'){c.fillStyle='rgba(6,4,10,.55)';c.fillRect(0,0,LW,LH);c.fillStyle='rgba(40,44,52,.72)';c.fillRect(110,90,420,200);c.strokeStyle='#f0c060';c.lineWidth=2;c.strokeRect(110,90,420,200);
+  WR.forEach((w,j)=>{const y=WL[j][1];c.fillStyle='#1a1c22';c.beginPath();c.arc(490,y,13,0,7);c.fill();c.strokeStyle=WL[w][0];c.lineWidth=4;c.beginPath();c.arc(490,y,10,0,7);c.stroke();c.fillStyle='#9aa';c.beginPath();c.arc(490,y,4,0,7);c.fill()});
+  WL.forEach(([col,y],i)=>{const tgt=WR.indexOf(i),ex=m.done[i]?490:m.hold===i?m.px:186,ey=m.done[i]?WL[tgt][1]:m.hold===i?m.py:y+10;
+   c.strokeStyle=col;c.lineWidth=7;c.lineCap='round';c.beginPath();c.moveTo(120,y);c.bezierCurveTo(170,y+30,ex-60,ey+30,ex,ey);c.stroke();c.fillStyle='#ddd';c.beginPath();c.arc(ex,ey,5,0,7);c.fill()});
+  if(m.spark>0){c.fillStyle=`rgba(255,240,150,${m.spark*2})`;c.beginPath();c.arc(m.px,m.py,18*m.spark+6,0,7);c.fill()}
+  c.fillStyle='#ffd23c';c.font='600 12px "Pixelify Sans",monospace';c.fillText('Подключено: '+m.done.filter(v=>v).length+' из 4',262,306)}
+ if(m.type==='cushions'){const glow=.55+Math.sin(T*14)*.35;const jx=Math.sin(T*60)*1.2;
+  c.fillStyle=`rgba(120,190,255,${.35*glow})`;c.beginPath();c.arc(PH.x+PH.w/2,PH.y+PH.h/2,48,0,7);c.fill();
+  c.fillStyle='#111';c.fillRect(PH.x+jx,PH.y,PH.w,PH.h);c.fillStyle=`rgba(140,200,255,${.6+glow*.4})`;c.fillRect(PH.x+3+jx,PH.y+4,PH.w-6,PH.h-10);c.strokeStyle='#ccc';c.lineWidth=1;c.beginPath();c.moveTo(PH.x+jx+4,PH.y+PH.h-8);c.lineTo(PH.x+jx+14,PH.y+30);c.stroke();
+  m.cu.forEach((q,i)=>{const g=c.createLinearGradient(q.x,q.y,q.x,q.y+q.h);g.addColorStop(0,['#a02838','#8a1e30','#b0303e'][i]);g.addColorStop(1,'#4a0c18');c.fillStyle=g;rr(q.x,q.y,q.w,q.h);c.fill();c.strokeStyle='#2a0610';c.lineWidth=3;c.stroke();
+   c.strokeStyle='rgba(255,200,200,.18)';c.lineWidth=2;c.beginPath();c.moveTo(q.x+q.w/2,q.y+8);c.lineTo(q.x+q.w/2,q.y+q.h-8);c.stroke();c.fillStyle='#e0b050';c.beginPath();c.arc(q.x+q.w/2,q.y+q.h/2,4,0,7);c.fill()});
+  const r=c.createRadialGradient(LW/2,LH/2,80,LW/2,LH/2,330);r.addColorStop(0,'rgba(0,0,0,0)');r.addColorStop(1,'rgba(0,0,0,.75)');c.fillStyle=r;c.fillRect(0,0,LW,LH)}
  if(m.type==='candles'){CANX.forEach((x,i)=>{if(!m.lit[i])return;const f=Math.sin(T*18+i)*1.2;c.fillStyle='rgba(255,200,80,.25)';c.beginPath();c.arc(x,80,12,0,7);c.fill();c.fillStyle='#ff9a3c';c.beginPath();c.ellipse(x,79+f*.3,4,8+f,0,0,7);c.fill();c.fillStyle='#ffe27a';c.beginPath();c.ellipse(x,81,2,4,0,0,7);c.fill()});
   c.fillStyle='#f4eef6';c.fillText('Горит: '+m.lit.filter(v=>v).length+' из 7',268,340)}
  c.restore()}
-function updMini(dt){const m=S.mini;if(!m)return;if(m.type==='timing'){m.p+=m.v*dt*(.55+m.hits*.22);if(m.p>1){m.p=1;m.v=-1}if(m.p<0){m.p=0;m.v=1}m.sh=Math.max(0,m.sh-dt);m.flash=Math.max(0,m.flash-dt)}
+function updMini(dt){const m=S.mini;if(!m)return;if(m.type==='wires')m.spark=Math.max(0,m.spark-dt);if(m.type==='timing'){m.p+=m.v*dt*(.55+m.hits*.22);if(m.p>1){m.p=1;m.v=-1}if(m.p<0){m.p=0;m.v=1}m.sh=Math.max(0,m.sh-dt);m.flash=Math.max(0,m.flash-dt)}
  if(m.type==='candles'){m.next-=dt;if(m.next<=0){m.next=.9+Math.random()*.6;const on=m.lit.map((v,i)=>v?i:-1).filter(i=>i>=0);if(on.length&&on.length<7){m.lit[on[Math.floor(Math.random()*on.length)]]=0;beep(180,.08,'triangle',.02)}}}}
 
 /* ---------- переходы и ввод ---------- */
@@ -554,7 +646,7 @@ addEventListener('keydown',e=>{if((e.key===' '||e.key==='Enter')&&document.activ
 function hud(){c.save();c.fillStyle='rgba(12,8,20,.78)';c.strokeStyle='#4a3560';c.lineWidth=1.5;rr(8,8,150,56);c.fill();c.stroke();
  c.font='600 11px "Pixelify Sans",monospace';c.textBaseline='middle';
  [['Гости',S.g,'#3ec9c1'],['Команда',S.t,'#f0c060'],['Касса',S.k,'#ff4fb0']].forEach(([n,v,col],i)=>{const y=21+i*16;c.fillStyle='#e8e0f0';c.fillText(n,16,y);c.fillStyle='#2a2236';c.fillRect(74,y-4,76,8);c.fillStyle=col;c.fillRect(74,y-4,76*v/5,8)});
- c.fillStyle='rgba(12,8,20,.78)';rr(LW-118,8,110,26);c.fill();c.stroke();c.fillStyle='#f4eef6';c.font='600 12px "Pixelify Sans",monospace';c.textAlign='right';c.fillText('Пт, '+CH[S.ch][1],LW-16,21);
+ c.fillStyle='rgba(12,8,20,.78)';rr(LW-118,8,110,26);c.fill();c.stroke();c.fillStyle='#f4eef6';c.font='600 12px "Pixelify Sans",monospace';c.textAlign='right';c.fillText((CH[S.ch][1]<'1'?'Сб, ':'Пт, ')+CH[S.ch][1],LW-16,21);
  c.textAlign='left';c.fillStyle='rgba(12,8,20,.7)';const nm=SC[S.scene].name;c.font='600 11px "Pixelify Sans",monospace';const tw=c.measureText(nm).width;rr(LW/2-tw/2-10,10,tw+20,20);c.fill();c.fillStyle='#f0c060';c.textAlign='center';c.fillText(nm,LW/2,20);c.textAlign='left';
  pops=pops.filter(p=>(p.t-=1/60)>0);pops.forEach((p,i)=>{c.globalAlpha=Math.min(1,p.t);c.fillStyle='#f0c060';c.font='600 13px "Pixelify Sans",monospace';c.fillText(p.s,16,82+i*16+(1.6-p.t)*-6);c.globalAlpha=1});c.restore()}
 function rr(x,y,w,h){c.beginPath();typeof c.roundRect==='function'?c.roundRect(x,y,w,h,6):c.rect(x,y,w,h)}
@@ -573,7 +665,8 @@ function frame(now){const dt=Math.min(.05,(now-last)/1000);last=now;T+=dt;POSET=
   (s.fg||[]).forEach(f=>{c.save();c.beginPath();f.p.forEach(([px,py],i)=>i?c.lineTo(px,py):c.moveTo(px,py));c.closePath();c.clip();c.globalAlpha=f.a;c.drawImage(IMG[S.scene],0,0,LW,LH);c.restore()});
   s.hot().forEach(h=>{if(!h.mk)return;const [mx,my]=h.mk,pulse=.6+Math.sin(T*4)*.3;c.save();c.globalAlpha=pulse;c.fillStyle='rgba(12,8,20,.7)';c.beginPath();c.arc(mx,my,11,0,7);c.fill();c.strokeStyle='#f0c060';c.lineWidth=2;c.stroke();
    c.fillStyle='#f0c060';c.font='600 12px "Pixelify Sans",monospace';c.textAlign='center';c.textBaseline='middle';c.fillText('⇄',mx,my+1);c.restore()});
-  if(s.dark&&!S.mini){const g=c.createRadialGradient(me.x,250,30,me.x,250,170);g.addColorStop(0,'rgba(0,0,0,0)');g.addColorStop(1,'rgba(0,0,0,.92)');c.fillStyle=g;c.fillRect(0,0,LW,LH)}
+  if((s.dark||(S.s7dark&&!S.s7power))&&!S.mini){const ly=s.floor-60*s.s,bo=!s.dark;const g=c.createRadialGradient(me.x,ly,bo?24*s.s:30,me.x,ly,bo?100*s.s:170);g.addColorStop(0,'rgba(0,0,0,0)');g.addColorStop(1,'rgba(0,0,0,.94)');c.fillStyle=g;c.fillRect(0,0,LW,LH)}
+  if(S.scene==='vip2'&&S.s7buzz&&!S.s7phone&&!has('phone')){const a=.55+Math.sin(T*12)*.35;const gg=c.createRadialGradient(150,215,2,150,215,46);gg.addColorStop(0,`rgba(150,210,255,${a})`);gg.addColorStop(1,'rgba(150,210,255,0)');c.fillStyle=gg;c.beginPath();c.ellipse(150+Math.sin(T*50),215,46,18,0,0,7);c.fill();c.fillStyle=`rgba(200,230,255,${a})`;c.font='600 12px "Pixelify Sans",monospace';c.textAlign='center';c.fillText('бзз… бзз…',150+Math.sin(T*40)*2,194);c.textAlign='left'}
   if(!open&&!cardOpen&&!endOpen&&!S.mini){const [,gs,gx,gy]=goal();let ax=null,ay=null;
    if(gs===S.scene&&gx){ax=gx;ay=gy||(s.floor-118*s.s)}else if(gs!==S.scene){const nh=hop(S.scene,gs);const h=nh&&LINKS[S.scene][nh];if(h){ax=h.mk?h.mk[0]:h.x+h.w/2;ay=h.mk?h.mk[1]-22:h.y+10}}
    if(ax!=null){const b=Math.sin(T*5)*3;c.fillStyle='#f0c060';c.strokeStyle='#3a2410';c.lineWidth=1.5;c.beginPath();c.moveTo(ax-8,ay-14+b);c.lineTo(ax+8,ay-14+b);c.lineTo(ax,ay-3+b);c.closePath();c.fill();c.stroke()}}}

diff --git a/README.md b/README.md
@@ -2,7 +2,7 @@
 
 Пиксельная point-and-click игра про одну пятничную смену менеджера в Pingwin Premium (караоке, VIP-залы, боулинг).
 
-- Пролог и 5 глав: брони, боулинг, тишина в VIP, сцена в зале, пропавшее кольцо.
+- Пролог и 7 глав: брони, боулинг, тишина в VIP, сцена в зале, пропавшее кольцо, турнир без табло, блэкаут.
 - Шкалы «Гости / Команда / Касса», сумка с предметами, мини-игры, сохранение по главам.
 - Фоны и персонажи сгенерированы в Higgsfield по фото и схеме заведения.
 
